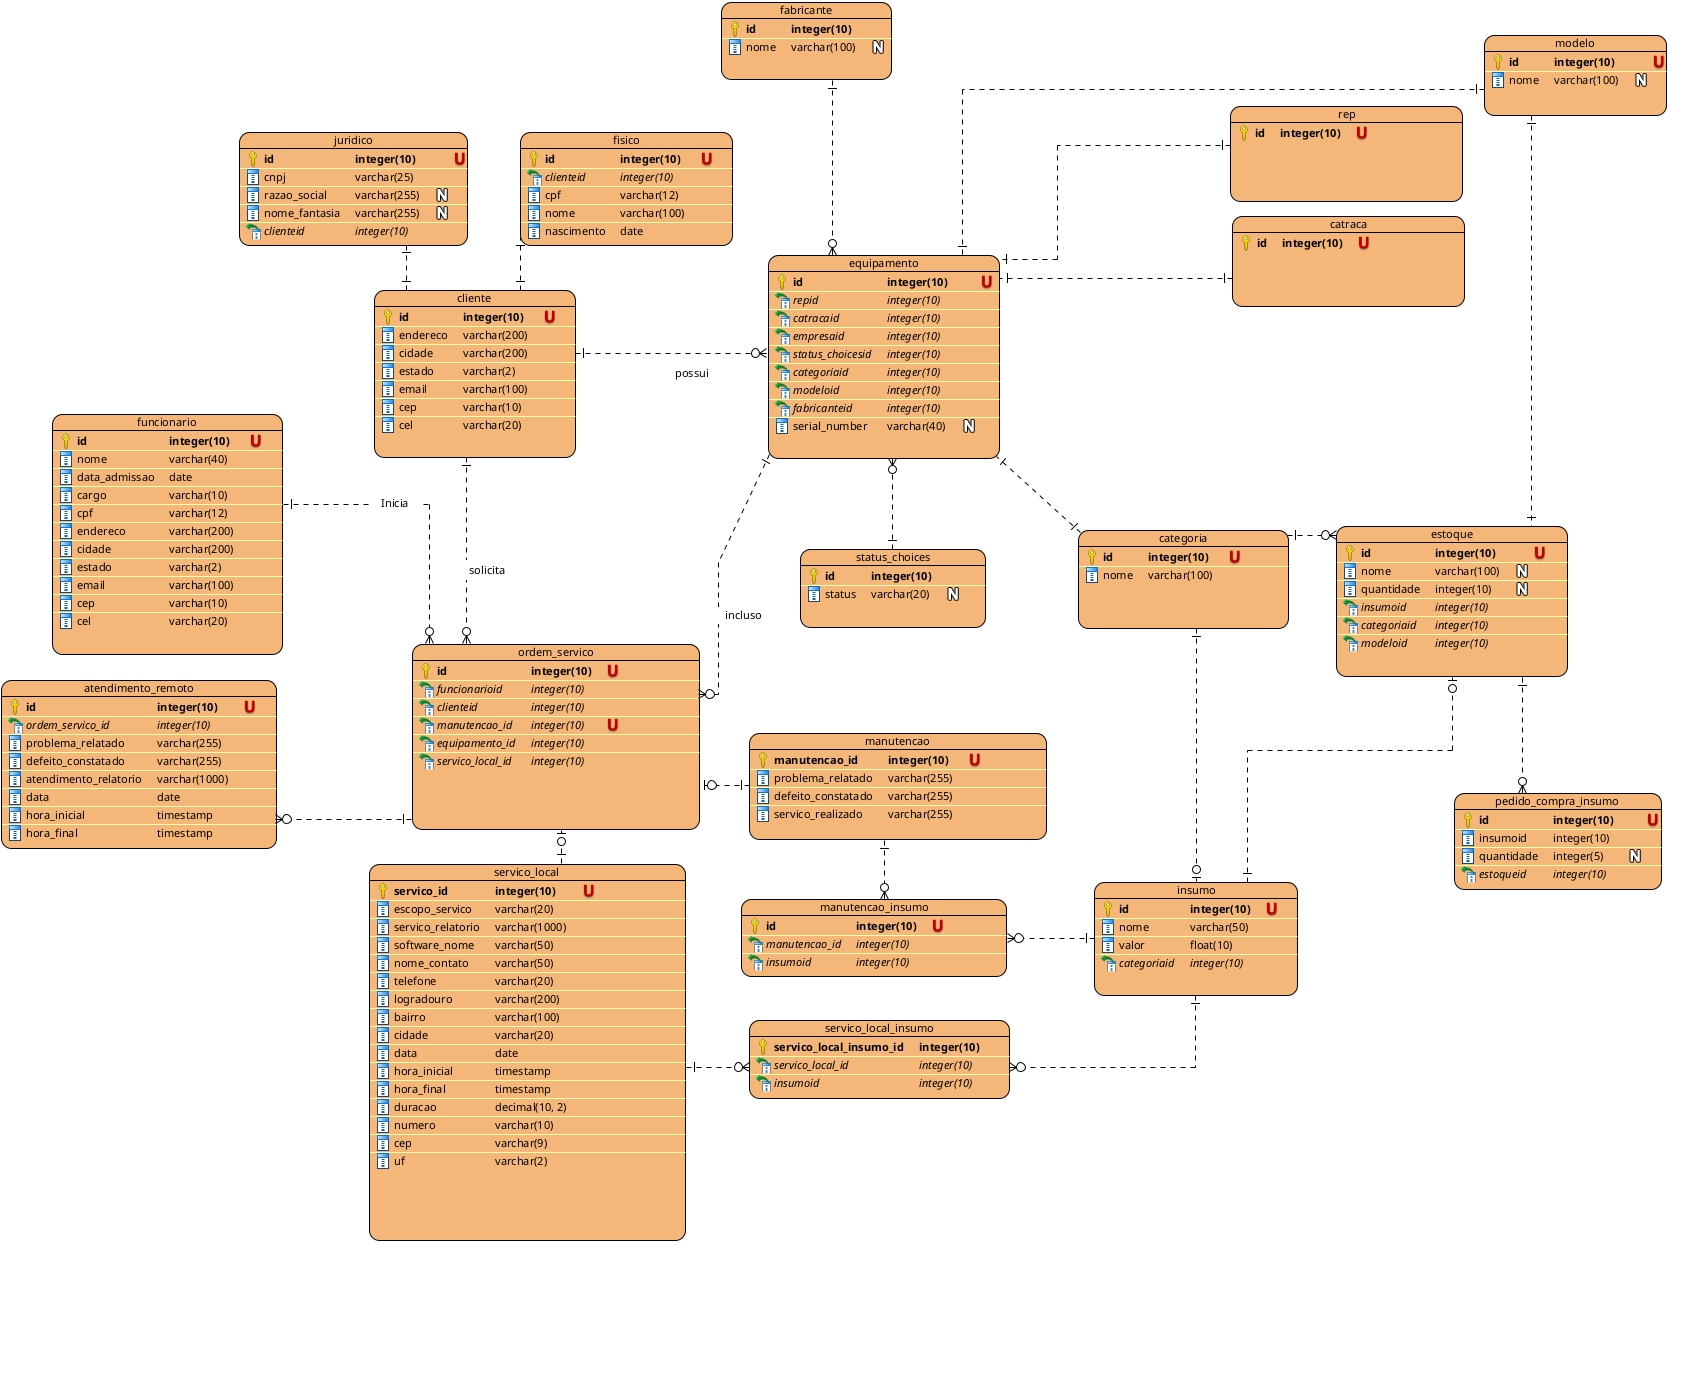
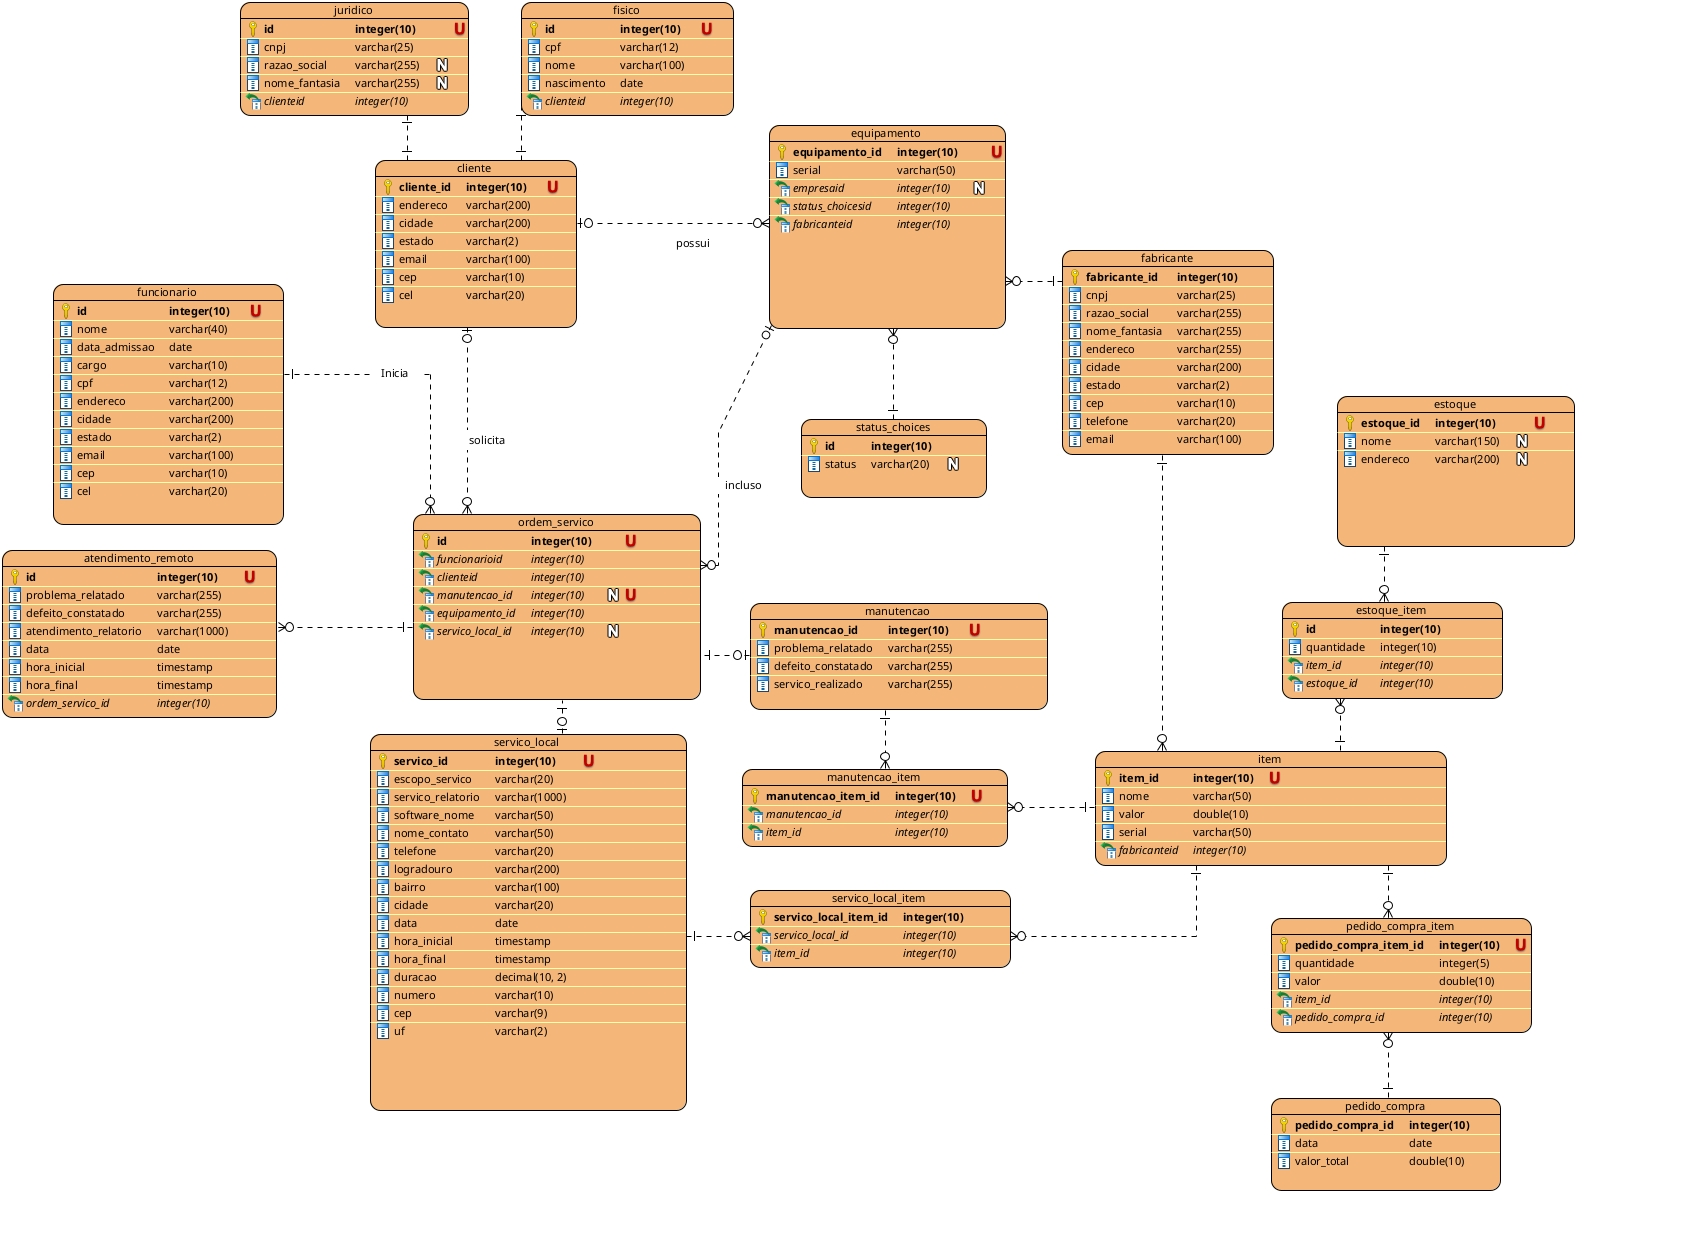
Entity and ERD Update

diff --git a/src/main/java/com/manutencaoerp/dev/entity/Fabricante.java b/src/main/java/com/manutencaoerp/dev/entity/Fabricante.java
@@ -1,0 +1,78 @@
+package com.manutencaoerp.dev.entity;
+
+import com.fasterxml.jackson.annotation.JsonManagedReference;
+import jakarta.persistence.*;
+import lombok.Getter;
+import lombok.Setter;
+
+import java.util.List;
+
+@Entity
+@Table(name = "fabricante")
+public class Fabricante {
+
+    @Id
+    @GeneratedValue(strategy = GenerationType.IDENTITY)
+    @Column(name = "fabricante_id",length = 10)
+    @Getter
+    @Setter
+    private Integer fabricanteId;
+
+    @Column(name = "cnpj",length = 25, unique = true,nullable = false)
+    @Getter
+    @Setter
+    private String cnpj;
+
+    @Column(name = "nome_fantasia",nullable = false)
+    @Getter
+    @Setter
+    private String nomeFantasia;
+
+    @Column(name = "razao_social",nullable = false)
+    @Setter
+    @Getter
+    private String razaoSocial;
+
+    @Column(name = "endereco",nullable = false)
+    @Getter
+    @Setter
+    private String endereco;
+
+    @Column(name = "cidade",length = 200, nullable = false)
+    @Getter
+    @Setter
+    private String cidade;
+
+    @Column(name = "estado",length = 2, nullable = false)
+    @Getter
+    @Setter
+    private String estado;
+
+
+    @Column(name = "cep",length = 10,nullable = false)
+    @Getter
+    @Setter
+    private String cep;
+
+    @Column(name = "telefone",length = 20, nullable = false)
+    @Getter
+    @Setter
+    private String telefone;
+
+    @Column(name = "email",length = 100, nullable = false)
+    @Getter
+    @Setter
+    private String email;
+
+    @OneToMany(mappedBy = "fabricante",cascade = CascadeType.ALL,orphanRemoval = true)
+    @JsonManagedReference
+    @Getter
+    @Setter
+    private List<Equipamento> equipamentoList;
+
+    @OneToMany(mappedBy = "fabricante",cascade = CascadeType.ALL,orphanRemoval = true)
+    @JsonManagedReference
+    @Getter
+    @Setter
+    private List<Item> itemList;
+}

diff --git a/src/main/java/com/manutencaoerp/dev/entity/Item.java b/src/main/java/com/manutencaoerp/dev/entity/Item.java
@@ -1,8 +1,12 @@
 package com.manutencaoerp.dev.entity;
 
+import com.fasterxml.jackson.annotation.JsonBackReference;
+import com.fasterxml.jackson.annotation.JsonManagedReference;
 import jakarta.persistence.*;
 import lombok.Getter;
 import lombok.Setter;
+
+import java.util.List;
 
 @Entity
 @Table(name = "insumo")
@@ -19,4 +23,39 @@ public class Item {
     @Getter
     @Setter
     private String nome;
+
+    @Column(name = "serial",length = 50,nullable = false)
+    @Getter
+    @Setter
+    private String serial;
+
+    @OneToMany(mappedBy = "item",cascade = CascadeType.ALL,orphanRemoval = true)
+    @JsonManagedReference
+    @Getter
+    private List<ManutencaoItem> manutencaoItemList;
+
+    @OneToMany(mappedBy = "item", cascade = CascadeType.ALL, orphanRemoval = true)
+    @JsonManagedReference
+    @Getter
+    private List<ServicoLocalItem> servicoLocalItemList;
+
+    @OneToMany(mappedBy = "item", cascade = CascadeType.ALL,orphanRemoval = true)
+    @JsonManagedReference
+    @Getter
+    private List<EstoqueItem> estoqueItemList;
+
+    @OneToMany(mappedBy = "item", cascade = CascadeType.ALL,orphanRemoval = true)
+    @JsonManagedReference
+    @Getter
+    @Setter
+    private List<PedidoCompraItem> pedidoCompraItemList;
+
+    @ManyToOne(fetch = FetchType.LAZY)
+    @JsonBackReference
+    @Getter
+    @Setter
+    private Fabricante fabricante;
+
+    public Item(){}
+
 }

diff --git a/src/main/java/com/manutencaoerp/dev/entity/Estoque.java b/src/main/java/com/manutencaoerp/dev/entity/Estoque.java
@@ -1,0 +1,37 @@
+package com.manutencaoerp.dev.entity;
+
+import com.fasterxml.jackson.annotation.JsonManagedReference;
+import jakarta.persistence.*;
+import lombok.Getter;
+import lombok.Setter;
+
+import java.util.List;
+
+@Entity
+@Table(name = "estoque")
+public class Estoque {
+
+    @Id
+    @GeneratedValue(strategy = GenerationType.IDENTITY)
+    @Column(name = "estoque_id")
+    @Getter
+    @Setter
+    private Integer estoqueId;
+
+    @Column(name = "nome",length = 150, nullable = false)
+    @Getter
+    @Setter
+    private String nome;
+
+    @Column(name = "endereco",length = 200, nullable = false)
+    @Getter
+    @Setter
+    private String endereco;
+
+    @OneToMany(mappedBy = "item",cascade = CascadeType.ALL,orphanRemoval = true)
+    @JsonManagedReference
+    @Getter
+    private List<EstoqueItem> estoqueItemList;
+
+    public Estoque(){}
+}

diff --git a/src/main/java/com/manutencaoerp/dev/entity/EstoqueItem.java b/src/main/java/com/manutencaoerp/dev/entity/EstoqueItem.java
@@ -1,0 +1,37 @@
+package com.manutencaoerp.dev.entity;
+
+import com.fasterxml.jackson.annotation.JsonBackReference;
+import jakarta.persistence.*;
+import lombok.Getter;
+import lombok.Setter;
+
+@Entity
+@Table(name = "estoque_item")
+public class EstoqueItem {
+
+    @Id
+    @GeneratedValue(strategy = GenerationType.IDENTITY)
+    @Column(name = "estoque_item_id",nullable = false)
+    @Getter
+    @Setter
+    private Integer estoqueItemId;
+
+    @OneToMany(fetch = FetchType.LAZY)
+    @JsonBackReference
+    @Getter
+    @Setter
+    private Item item;
+
+    @OneToMany(fetch = FetchType.LAZY)
+    @JsonBackReference
+    @Getter
+    @Setter
+    private Estoque estoque;
+
+    @Column(name = "quantidade",length = 10, nullable = false)
+    @Getter
+    @Setter
+    private Integer quantidade;
+
+    public EstoqueItem(){}
+}

diff --git a/src/main/java/com/manutencaoerp/dev/entity/PedidoCompra.java b/src/main/java/com/manutencaoerp/dev/entity/PedidoCompra.java
@@ -1,0 +1,37 @@
+package com.manutencaoerp.dev.entity;
+
+import com.fasterxml.jackson.annotation.JsonManagedReference;
+import jakarta.persistence.*;
+import lombok.Getter;
+import lombok.Setter;
+
+import java.time.LocalDate;
+import java.util.List;
+
+@Entity
+@Table(name = "pedido_compra")
+public class PedidoCompra {
+
+    @Id
+    @GeneratedValue(strategy = GenerationType.IDENTITY)
+    @Column(name = "pedido_compra_id")
+    @Getter
+    @Setter
+    private Integer pedidoCompraId;
+
+    @Column(name = "data",nullable = false)
+    @Getter
+    @Setter
+    private LocalDate data;
+
+    @Column(name = "valor_total",nullable = false)
+    @Getter
+    @Setter
+    private  Double valorTotal;
+
+    @OneToMany(mappedBy = "pedidoCompra", cascade = CascadeType.ALL,orphanRemoval = true)
+    @JsonManagedReference
+    @Getter
+    private List<PedidoCompraItem> pedidoCompraItemList;
+
+}

diff --git a/src/main/java/com/manutencaoerp/dev/entity/Equipamento.java b/src/main/java/com/manutencaoerp/dev/entity/Equipamento.java
@@ -22,6 +22,11 @@ public class Equipamento {
     @Setter
     private Integer equipamentoId;
 
+    @Column(name = "serial",length = 50,nullable = false)
+    @Getter
+    @Setter
+    private String serial;
+
     @ManyToOne(fetch = FetchType.LAZY)
     @JsonBackReference
     private Cliente cliente;
@@ -31,10 +36,11 @@ public class Equipamento {
     @Getter
     private List<OrdemServico> ordemServicoList;
 
-    @Column(name = "serial",length = 50,nullable = false)
+    @ManyToOne(fetch = FetchType.LAZY)
+    @JsonBackReference
     @Getter
     @Setter
-    private String serial;
+    private Fabricante fabricante;
 
     public Equipamento(){}
 }

diff --git a/src/main/java/com/manutencaoerp/dev/entity/ManutencaoItem.java b/src/main/java/com/manutencaoerp/dev/entity/ManutencaoItem.java
@@ -22,5 +22,11 @@ public class ManutencaoItem {
     @Setter
     private Manutencao manutencao;
 
+    @ManyToOne(fetch = FetchType.LAZY)
+    @JsonBackReference
+    @Getter
+    @Setter
+    private Item item;
+
     public ManutencaoItem(){}
 }

diff --git a/src/main/java/com/manutencaoerp/dev/entity/ServicoLocal.java b/src/main/java/com/manutencaoerp/dev/entity/ServicoLocal.java
@@ -1,8 +1,5 @@
 package com.manutencaoerp.dev.entity;
 
-
-
-
 import java.time.LocalDate;
 import java.time.LocalDateTime;
 import java.util.List;